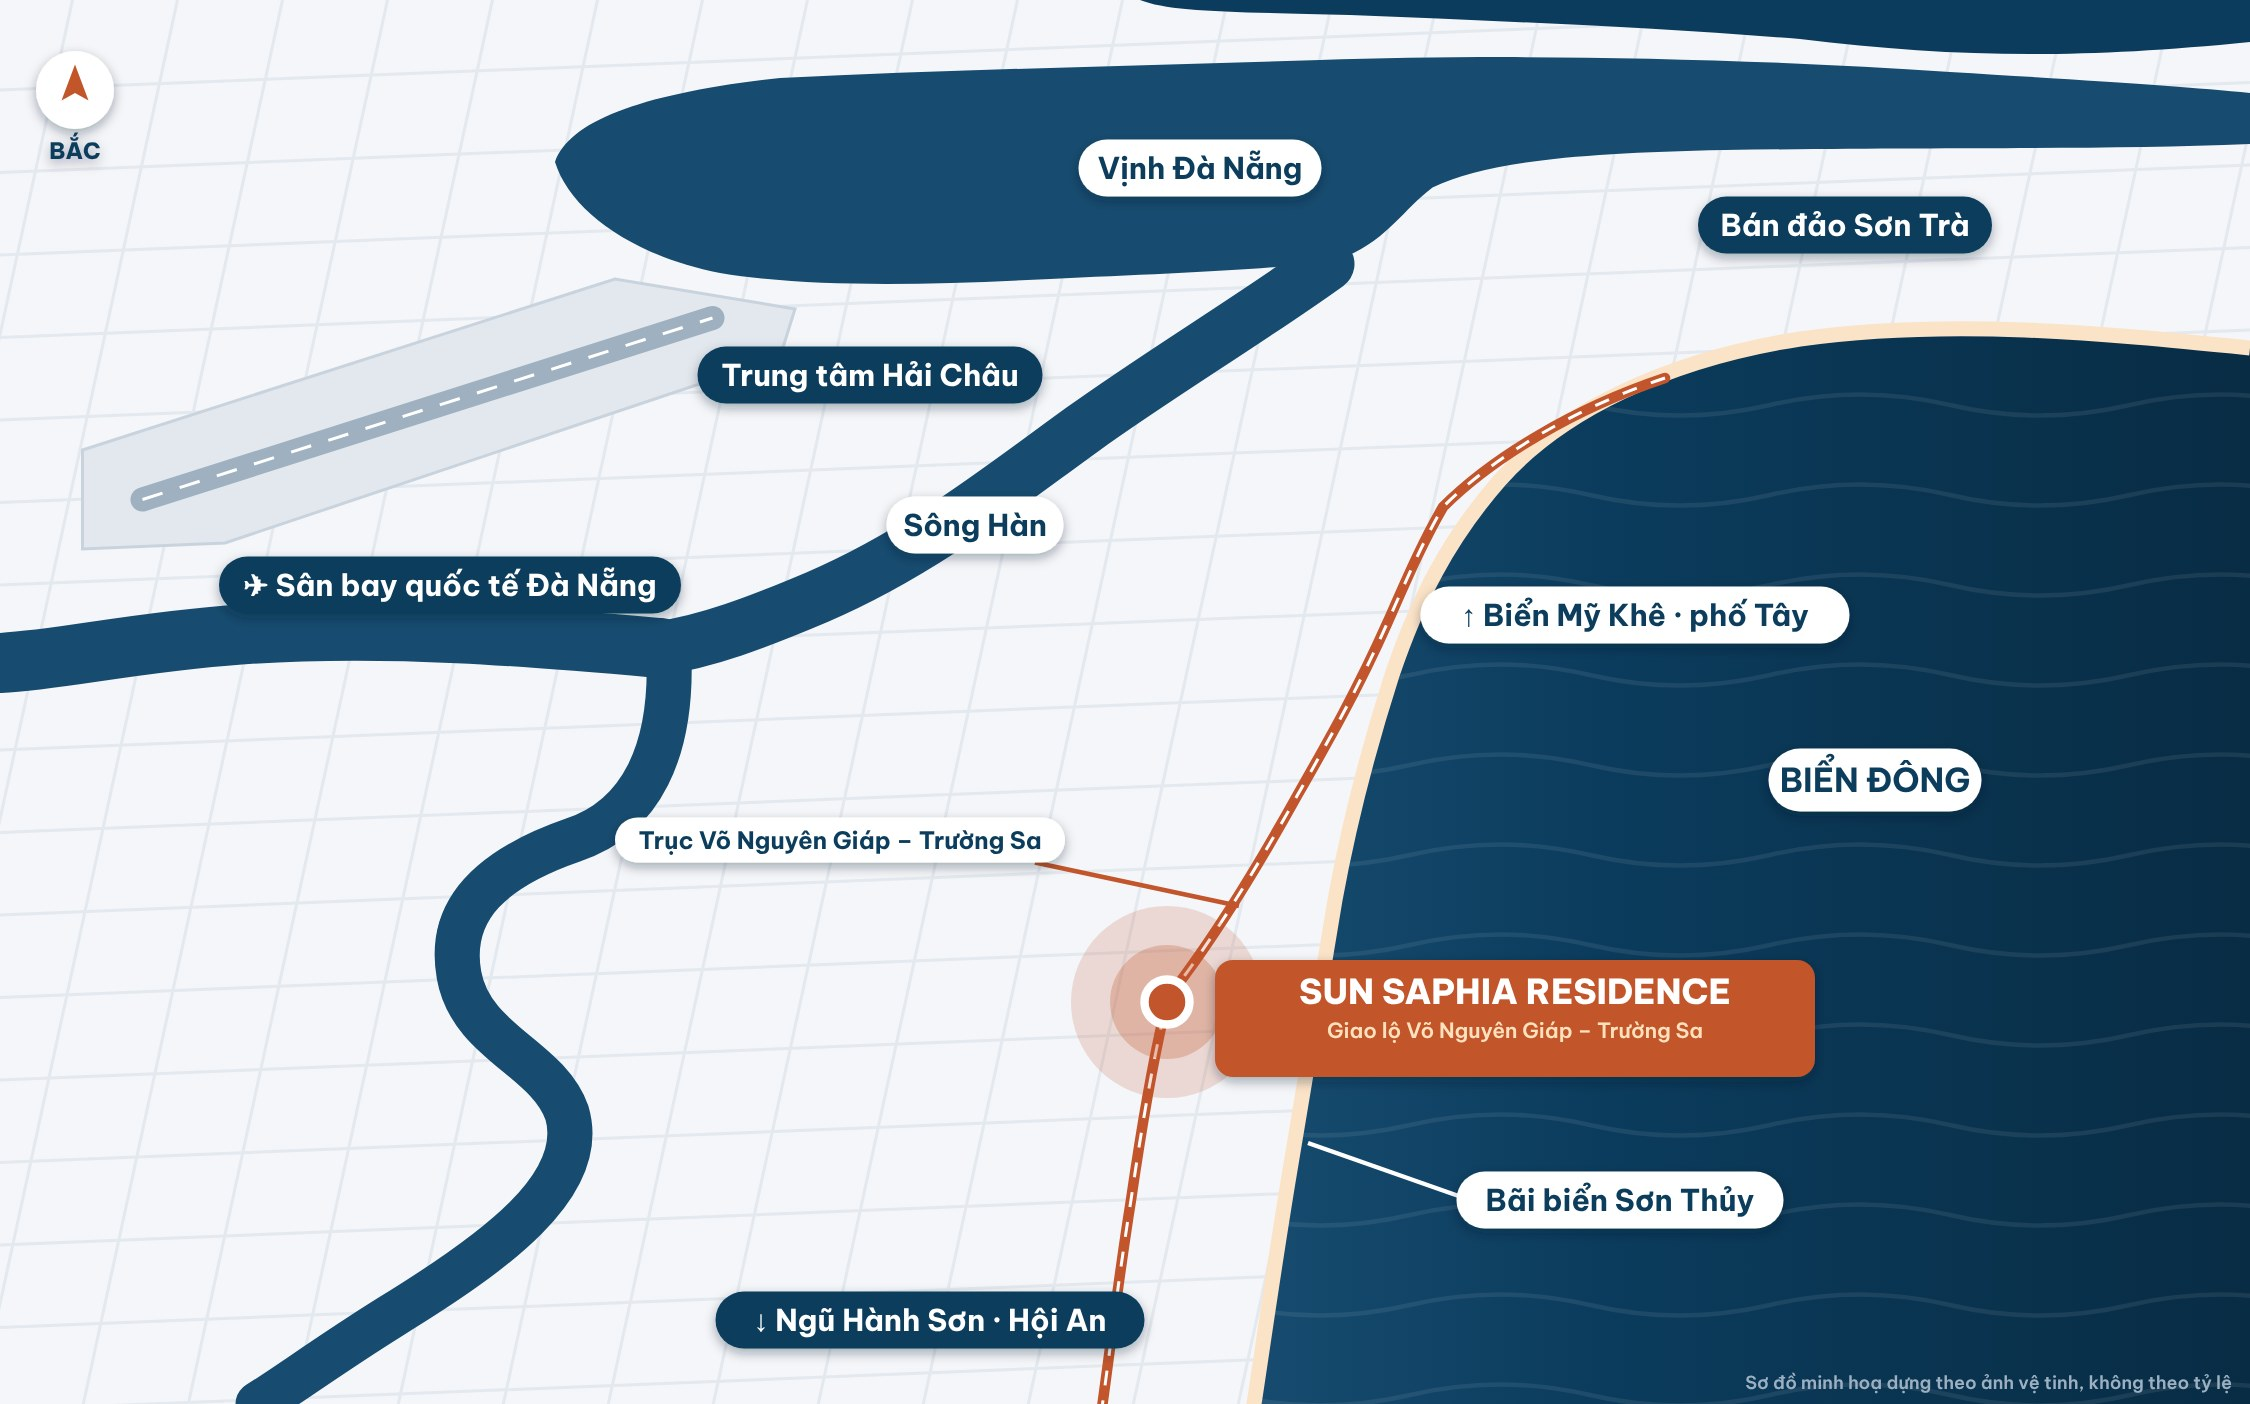
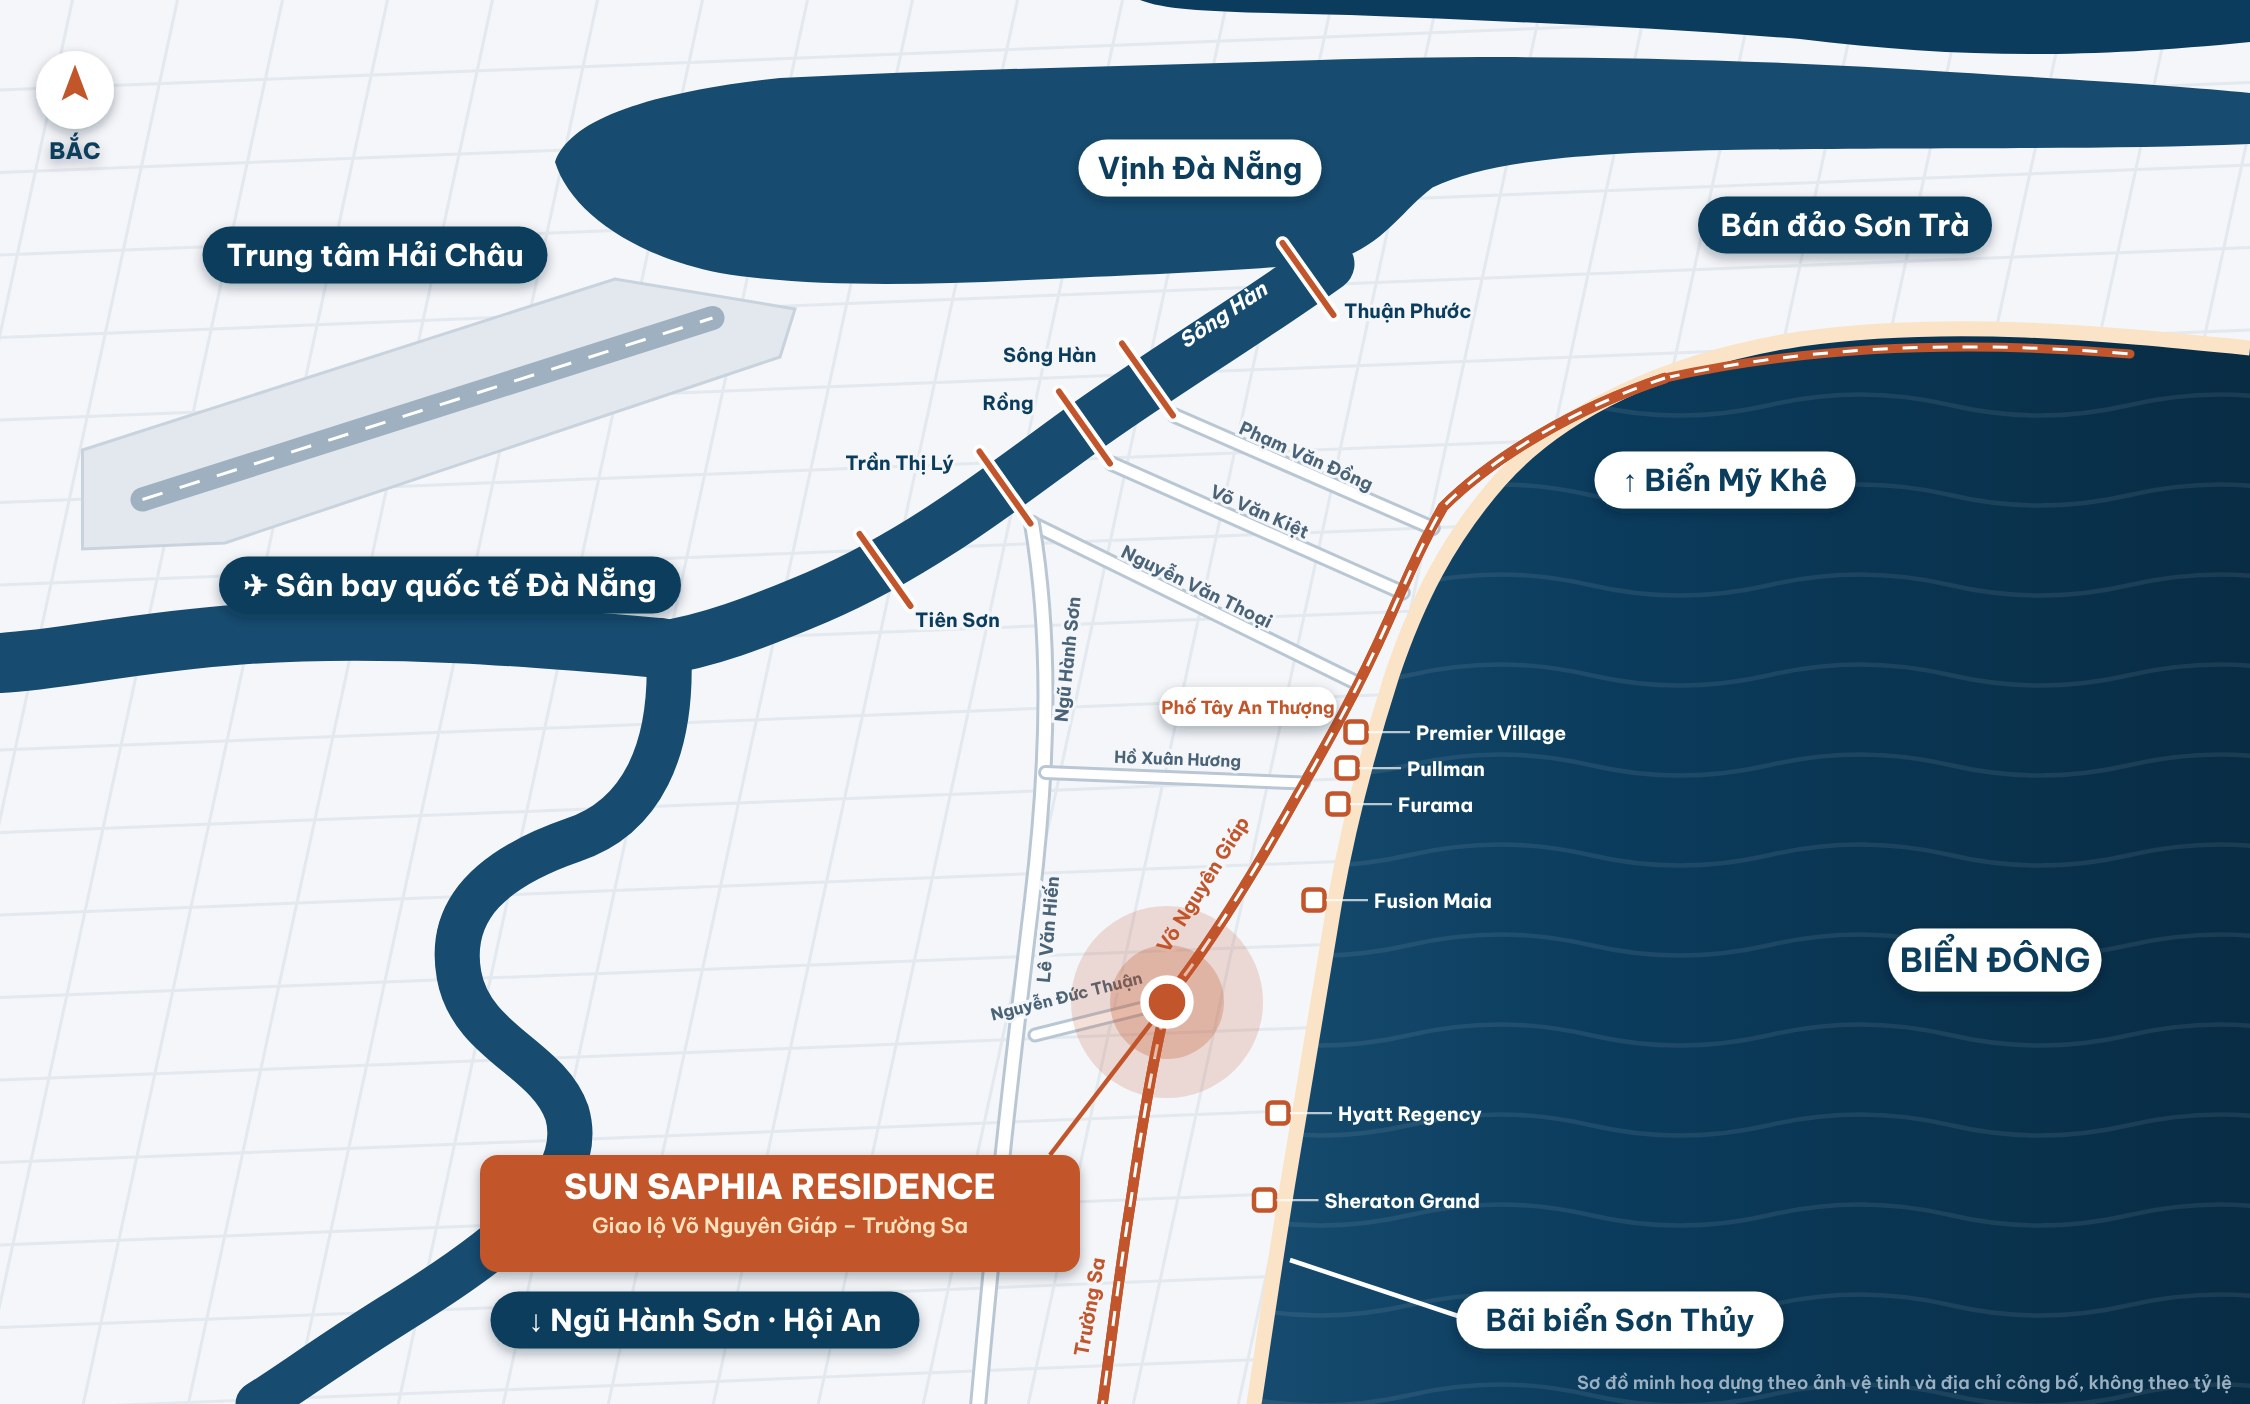
Add roads, bridges, resorts and footer to Sun Saphia page
Map now shows the Han river bridges, the main east-west roads, the
Vo Nguyen Giap / Truong Sa, Ngu Hanh Son / Le Van Hien, Ho Xuan Huong
and Nguyen Duc Thuan streets, and nearby beach resorts. Adds a project
footer with address, directions link, sales contact and disclaimer,
plus round floating contact buttons on desktop.

Claude-Session: https://claude.ai/code/session_01JnXgpEsLsnsKkqQxKUTmih

diff --git a/landing/sun-saphia/index.html b/landing/sun-saphia/index.html
@@ -234,9 +234,16 @@ section{padding:80px 0}
 .final ul{margin:20px 0 0 20px;color:#E8F5F7;font-size:17px}
 .final li{margin:6px 0}
 
-footer{background:#082C44;color:#9CC7D3;padding:32px 0 100px;font-size:14px}
-footer p{margin:6px 0}
-
+footer{background:#0B1E3F;color:#C9D6E3;padding:56px 0 110px;font-size:15px}
+.ft-grid{display:grid;grid-template-columns:1.3fr 1fr 1fr;gap:40px}
+.ft-brand{font-family:'Playfair Display',Georgia,serif;font-size:30px;font-style:italic;color:#FFFFFF;line-height:1.1}
+.ft-brand small{display:block;font-family:'Be Vietnam Pro',Arial,sans-serif;font-style:normal;font-size:11px;letter-spacing:4px;color:#E8833A;margin-top:6px}
+.ft-col p{margin:6px 0;line-height:1.6}
+.ft-col h4{font-size:15px;font-weight:700;letter-spacing:2px;color:#E8833A;margin-bottom:12px}
+.ft-col a{color:#FFFFFF;text-decoration:underline;text-underline-offset:3px}
+.ft-col a:hover{color:#FFC98B}
+.ft-line{border:none;border-top:1px solid rgba(255,255,255,.12);margin:36px 0 22px}
+.ft-note{font-size:13px;color:#8FA3B8;line-height:1.7}
 /* STICKY BAR */
 .sticky{position:fixed;left:0;right:0;bottom:0;z-index:50;display:flex;gap:8px;padding:10px;background:rgba(8,44,68,.96)}
 .sticky a{flex:1;text-align:center;font-weight:700;font-size:15px;padding:13px 6px;border-radius:12px;text-decoration:none;color:#FFFFFF}
@@ -244,7 +251,16 @@ footer p{margin:6px 0}
 .s-zalo{background:#1590A6}
 .s-form{background:#C2552B}
 
-@media (min-width:861px){.sticky{left:auto;right:20px;bottom:20px;width:460px;border-radius:16px}}
+@media (min-width:861px){
+.sticky{left:auto;right:22px;bottom:24px;width:auto;flex-direction:column;gap:14px;padding:0;background:none}
+.sticky a{flex:none;width:62px;height:62px;padding:0;border-radius:50%;display:flex;align-items:center;justify-content:center;font-size:0;border:3px solid #FFFFFF;box-shadow:0 10px 24px rgba(4,24,42,.35);transition:.3s}
+.sticky a:hover{transform:scale(1.08)}
+.sticky a span{font-size:24px}
+.sticky .s-form{background:#0B1E3F}
+.sticky .s-call{background:#E8833A}
+.sticky .s-zalo{background:#0B1E3F}
+.sticky .s-zalo span{font-size:15px;font-weight:800}
+}
 @media (max-width:860px){
   .hero{padding-top:0}
   .hero-grid{gap:24px}
@@ -266,6 +282,7 @@ footer p{margin:6px 0}
   .bcol b{font-size:15px}
   .kpi b{font-size:30px}
   .infra-grid{grid-template-columns:1fr 1fr}
+  .ft-grid{grid-template-columns:1fr;gap:28px}
   .months{grid-template-columns:repeat(6,1fr)}
   .form-card{flex:1 1 100%}
   .band h3{font-size:26px}
@@ -780,17 +797,34 @@ footer p{margin:6px 0}
 
 <footer>
   <div class="wrap">
-    <p><b style="color:#FFFFFF">Hoàng Hiệp</b> · Chuyên viên tư vấn bất động sản · 0904 567 009</p>
-    <p>Đây là trang tư vấn của chuyên viên kinh doanh, không phải website chính thức của chủ đầu tư Sun Group. Thông tin, hình vẽ và số liệu mang tính tham khảo; giá bán, chính sách, tiện ích và pháp lý theo văn bản chính thức của chủ đầu tư tại thời điểm giao dịch. Không cam kết lợi nhuận hay giá thuê.</p>
-    <p>Số liệu du lịch: Sở VHTT&amp;DL Đà Nẵng, Báo Đà Nẵng (9 tháng 2026). Miễn visa: Nghị quyết 44/NQ-CP. Giá thuê tham khảo: tin rao muaban.net 2026; Nhà Đầu tư, CafeBiz. Công suất phòng: CBRE, Avison Young, CoStar.</p>
+    <div class="ft-grid">
+      <div class="ft-col">
+        <p class="ft-brand">Sun Saphia<small>RESIDENCE</small></p>
+        <p style="margin-top:16px"><a href="#dang-ky">Sun Saphia Residence</a> – căn hộ mặt biển tại giao lộ Võ Nguyên Giáp – Trường Sa, sát bãi biển Sơn Thủy, Đà Nẵng.</p>
+      </div>
+      <div class="ft-col">
+        <h4>ĐỊA CHỈ DỰ ÁN</h4>
+        <p>Giao lộ Võ Nguyên Giáp – Trường Sa – Nguyễn Đức Thuận, TP. Đà Nẵng</p>
+        <p><a href="https://www.google.com/maps/search/?api=1&query=V%C3%B5%20Nguy%C3%AAn%20Gi%C3%A1p%2C%20Tr%C6%B0%E1%BB%9Dng%20Sa%2C%20Nguy%E1%BB%85n%20%C4%90%E1%BB%A9c%20Thu%E1%BA%ADn%2C%20%C4%90%C3%A0%20N%E1%BA%B5ng" target="_blank" rel="noopener">📍 Chỉ đường Google Maps ↗</a></p>
+      </div>
+      <div class="ft-col">
+        <h4>TƯ VẤN &amp; BÁN HÀNG</h4>
+        <p>Hoàng Phạm Đình Hiệp – Giám đốc kinh doanh</p>
+        <p>Hotline: <a href="tel:0904567009">0904 567 009</a></p>
+        <p>Zalo: <a href="https://zalo.me/0904567009">0904 567 009</a></p>
+      </div>
+    </div>
+    <hr class="ft-line">
+    <p class="ft-note">Trang thông tin dự án do Giám đốc kinh doanh Hoàng Phạm Đình Hiệp cung cấp, không phải website chính thức của chủ đầu tư. Hình ảnh phối cảnh và sơ đồ mang tính minh hoạ. Thông tin, giá bán và chính sách có thể thay đổi theo quy định của chủ đầu tư tại từng thời điểm; không cam kết lợi nhuận hay giá thuê. Cập nhật lần cuối: 19/10/2026.</p>
+    <p class="ft-note">Số liệu: Sở VHTT&amp;DL Đà Nẵng, Báo Đà Nẵng (9 tháng 2026); Nghị quyết 44/NQ-CP; tin rao muaban.net, Nhà Đầu tư, CafeBiz; CBRE, Avison Young, CoStar.</p>
   </div>
 </footer>
 
 <!-- STICKY BAR -->
 <div class="sticky">
-  <a class="s-call" href="tel:0904567009">📞 Gọi ngay</a>
-  <a class="s-zalo" href="https://zalo.me/0904567009">💬 Zalo</a>
-  <a class="s-form" href="#dang-ky-cuoi">📄 Nhận giá</a>
+  <a class="s-form" href="#dang-ky-cuoi" aria-label="Nhận bảng giá"><span>💬</span> Nhận giá</a>
+  <a class="s-call" href="tel:0904567009" aria-label="Gọi 0904 567 009"><span>📞</span> Gọi ngay</a>
+  <a class="s-zalo" href="https://zalo.me/0904567009" aria-label="Zalo 0904 567 009"><span>Zalo</span></a>
 </div>
 
 <script>
